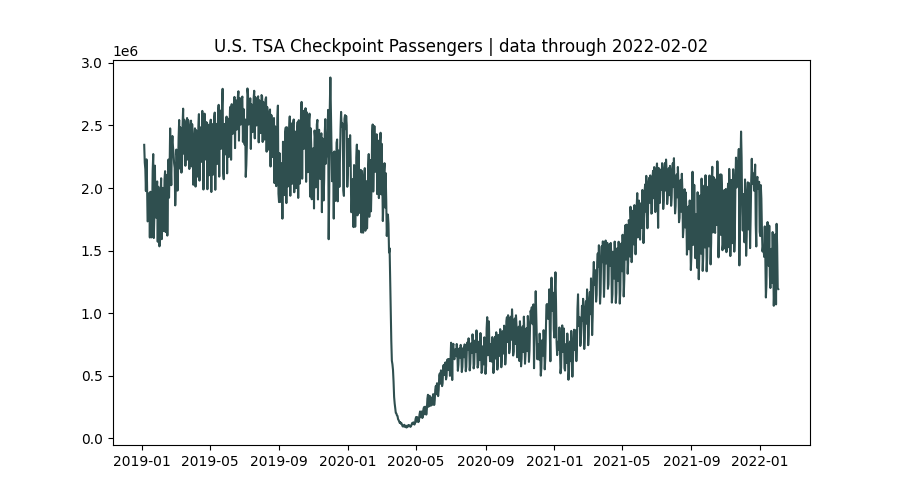
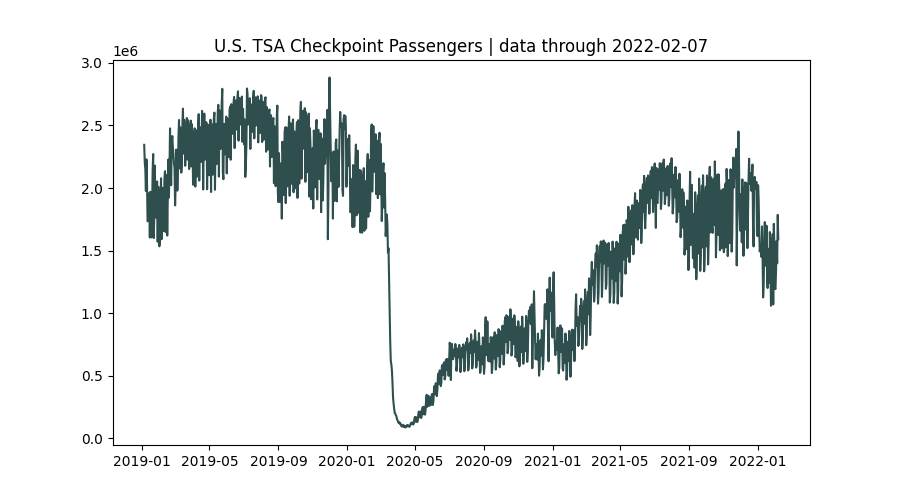
Adding Google Analytics tag. Updating TSA data.

diff --git a/index.html b/index.html
@@ -2,6 +2,16 @@
 <html lang="en-US" dir="ltr">
 
   <head>
+    <!-- Global site tag (gtag.js) - Google Analytics -->
+    <script async src="https://www.googletagmanager.com/gtag/js?id=UA-173201269-1"></script>
+    <script>
+      window.dataLayer = window.dataLayer || [];
+      function gtag(){dataLayer.push(arguments);}
+      gtag('js', new Date());
+
+      gtag('config', 'UA-173201269-1');
+    </script>
+
     <meta charset="utf-8">
     <meta name="viewport" content="width=device-width, initial-scale=1">
     <meta name="description" content="bbgatch analytics portfolio">

diff --git a/projects/tsa/tsa.html b/projects/tsa/tsa.html
@@ -2,6 +2,16 @@
 <html lang="en-US" dir="ltr">
 
   <head>
+    <!-- Global site tag (gtag.js) - Google Analytics -->
+    <script async src="https://www.googletagmanager.com/gtag/js?id=UA-173201269-1"></script>
+    <script>
+      window.dataLayer = window.dataLayer || [];
+      function gtag(){dataLayer.push(arguments);}
+      gtag('js', new Date());
+
+      gtag('config', 'UA-173201269-1');
+    </script>
+
     <meta charset="utf-8">
     <meta name="viewport" content="width=device-width, initial-scale=1">
     <meta name="description" content="TSA passenger number data.">
